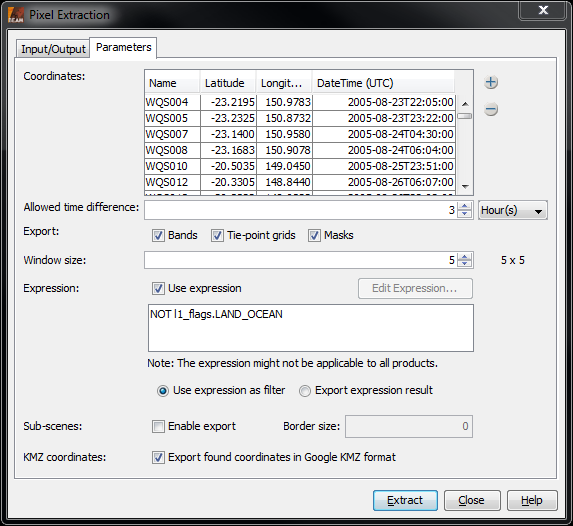
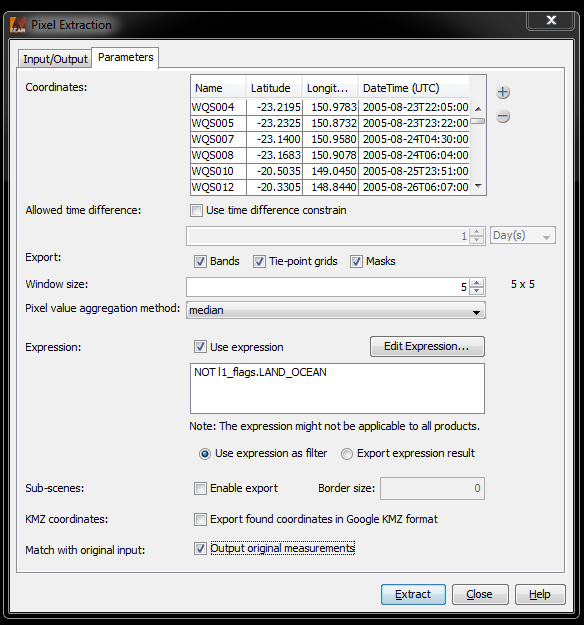
updated pixel extraction tool help

Changed region(s): [[0.0, 0.0, 1.0, 1.0]]

diff --git a/beam-pixel-extraction/src/main/resources/doc/help/pixelExtraction/PixelExtraction.html b/beam-pixel-extraction/src/main/resources/doc/help/pixelExtraction/PixelExtraction.html
@@ -190,9 +190,13 @@
 <h3>The User Interface</h3>
 
 <p>
-    The user interface of the Pixel Extraction Tool mainly consists of the Input/Output-pane and the
-    Parameters-pane, as well as three buttons to start the extraction process, close the
-    dialog, and open this help.
+    The user interface of the Pixel Extraction Tool consists of two panes: the first is an Input/Output-pane, which
+    allows the user to specify the input paths of the products that shall be considered, to specify an output directory
+    for the extracted values, a prefix the output files shall share, and a field that allows the user to extract the
+    time from the product filename, which may come in handy when there are products that don't carry time information
+    readable by the BEAM reader. The Input/Output-pane is explained in detail within the next section.
+    The second pane is dedicated to specify a number of parameters and is explained thoroughly in the section after the
+    next.
 </p>
 
 <h4>The Input/Output Pane</h4>
@@ -217,6 +221,14 @@
     <li>by specifying a directory</li>
     <li>or by specifying a directory recursively (indicated by '**' in the list)</li>
 </ul>
+
+<p class="i1">
+    <b>Time extraction:</b>
+    If the products carry no time information that is readable by the BEAM reader, it is possible to extract the time
+    information from the product filename. In order to do so, the date/time pattern needs to be provided (which would be,
+    e.g., ddMMyyyy_HHmmss for files like sst_26012010_164712.nc), and the pattern in the filename needs to be provided,
+    telling the software if the pattern appears once or twice.
+</p>
 
 <p class="i1">
     <b>Output directory:</b>
@@ -269,6 +281,19 @@
 </p>
 
 <p class="i1">
+    <b>Pixel value aggregation method:</b>
+    The user can choose between a number of aggregation methods when a window size bigger than 1x1 is used. Choosing
+    such an aggregation method, the pixel values from the window are all aggregated, so that only a single aggregated
+    value for each coordinate will be exported. The aggregation methods that may be used are:
+    <ul>
+        <li><b>min</b>, exports the minimum of the window values</li>
+        <li><b>max</b>, exports the maximum of the window values</li>
+        <li><b>mean</b>, exports mean and standard deviation of the window values</li>
+        <li><b>median</b>, exports the median of the window values</li>
+    </ul>
+</p>
+
+<p class="i1">
     <b>Expression:</b>
     A band maths expression can be specified to filter the values to output. The "Edit Expression..."-button
     opens the expression editor, which can be used for easily editing an expression. It is only available if the
@@ -287,8 +312,16 @@
 
 <p class="i1">
     <b>KMZ coordinates:</b>
-    All coordinates considered for the output are collected in one KMZ file. Which can be used to display the
+    All coordinates considered for the output are collected in one KMZ file, which can be used to display the
     coordinates in Google Earth.
+</p>
+
+<p class="i1">
+    <b>Match with original input:</b>
+    The pixel extraction allows outputting of correlative data in addition to the data that is extracted. This checkbox
+    is only enabled if coordinates that carry correlative data have been added. Such coordinates can be provided within
+    CSV files. Supported formats of these CSV files are the output format of the pixel extraction, and any other CSV
+    format BEAM can import.
 </p>
 
 <p>&nbsp;</p>
